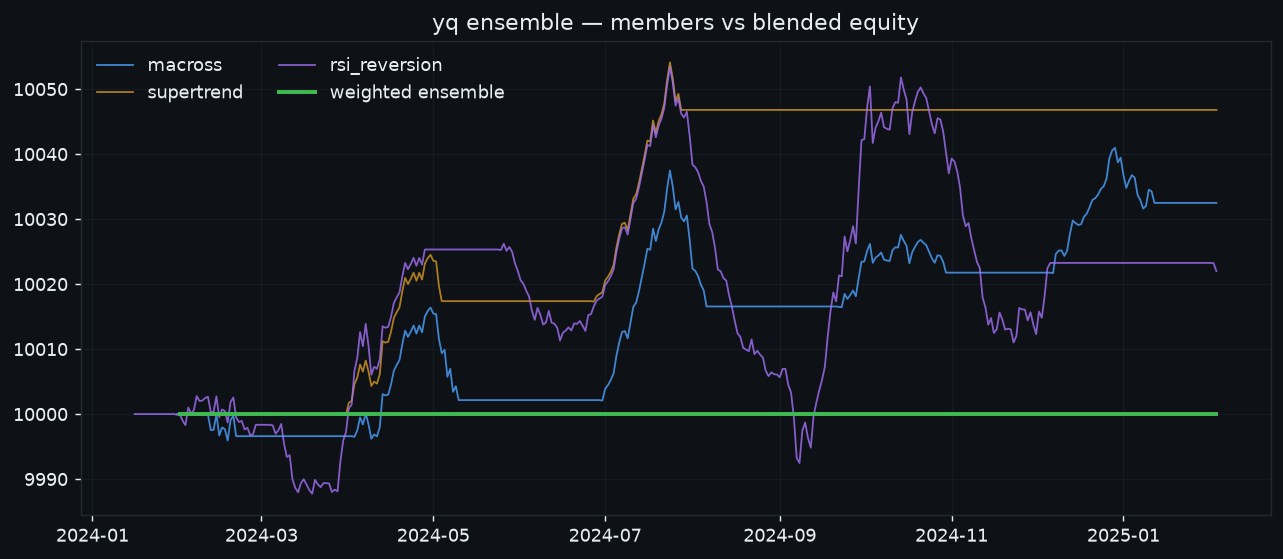
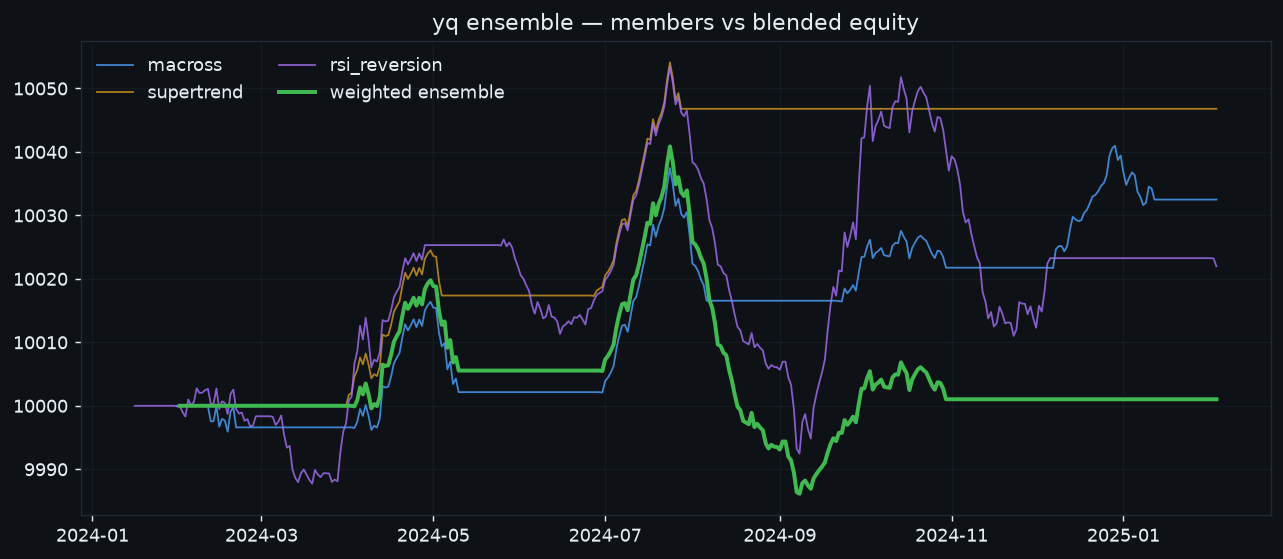
Fix Ensemble: persistent member stances so blends actually trade
The weighted/majority ensemble could sit dead-flat (0 trades): member strategies
emit BUY/SELL only on the crossover *bar*, so on any given bar they almost never
agreed and the net weighted vote never crossed the threshold (the green line in
the docs chart was flat).

Fix: each member's vote is now a *persistent stance* — its last directional
signal carried forward until it flips — so the vote reflects who is currently
long/short. The ensemble debounces, trading only when the aggregate stance flips
(long ↔ flat). Members that never cross (e.g. Donchian on a monotonic ramp) still
just hold; on realistic oscillating data the blend now trades as intended.

Regenerated docs/assets/ensemble.png (line is now dynamic, not flat). Regression
test asserts a weighted blend trades ≥1 time on oscillating data.

Claude-Session: https://claude.ai/code/session_013Byx5gYnWgTGdUFsbqiVoE

diff --git a/src/yammyquant/strategy/ensemble.py b/src/yammyquant/strategy/ensemble.py
@@ -86,23 +86,33 @@ class Ensemble(Strategy):
             raise ValueError(f"unknown rule {rule!r}; choose from {RULES}")
         self.rule, self.threshold, self.size = rule, threshold, size
         self.warmup = max(m.warmup for m in self.members)
+        self._stance = ["HOLD"] * len(self.members)
+        self._side = "FLAT"
 
     def reset(self) -> None:
         for m in self.members:
             m.reset()
+        self._stance = ["HOLD"] * len(self.members)
+        self._side = "FLAT"
 
     def on_bar(self, window: Candle) -> List[Order]:
-        votes = []
-        for m in self.members:
+        # Members signal on crossover *bars* only; carry each member's last
+        # directional signal forward as a persistent stance so the vote reflects
+        # who is currently long/short — otherwise members rarely agree on the
+        # same bar and weighted/majority rules almost never fire.
+        for i, m in enumerate(self.members):
             if len(window) < m.warmup:
-                votes.append("HOLD")
                 continue
             orders = m.on_bar(window[-m.warmup:])
-            votes.append(orders[0].action.value if orders else "HOLD")
-        agg = aggregate_votes(votes, self.weights, self.rule, self.threshold)
+            if orders:
+                self._stance[i] = orders[0].action.value
+        agg = aggregate_votes(self._stance, self.weights, self.rule, self.threshold)
         price, time = float(window.close[-1]), window.index[-1]
-        if agg["buy"] and not agg["sell"]:
+        # Debounce: trade only when the aggregate stance flips (long ↔ flat).
+        if agg["buy"] and not agg["sell"] and self._side != "LONG":
+            self._side = "LONG"
             return [Order(Action.BUY, window.ticker, self.size, price, time)]
-        if agg["sell"] and not agg["buy"]:
+        if agg["sell"] and not agg["buy"] and self._side == "LONG":
+            self._side = "FLAT"
             return [Order(Action.SELL, window.ticker, self.size, price, time)]
         return []

diff --git a/tests/test_ensemble.py b/tests/test_ensemble.py
@@ -94,3 +94,17 @@ def test_decide_unanimous_is_stricter(tmp_path, fake_exchange):
     out = ops.decide(store, state, weight=0.2, execute=False)
     # unanimous may suppress the entry; whatever it returns must be self-consistent
     assert isinstance(out["proposals"], list)
+
+
+def test_weighted_ensemble_trades_not_flat(sine_candle):
+    """Regression: persistent stances mean a weighted blend actually trades.
+    Members fire on different bars, so instantaneous votes never agreed and the
+    weighted equity used to be a dead-flat line (zero trades)."""
+    from yammyquant.backtest.engine import Backtest
+    from yammyquant.strategy.ensemble import Ensemble
+    from yammyquant.strategy.builtin import MACross, EMACross, RSIReversion
+
+    e = Ensemble([MACross(5, 20), EMACross(9, 21), RSIReversion(14)],
+                 rule="weighted", threshold=0.4)
+    res = Backtest(sine_candle, e, cash=10_000).run()
+    assert res.stats["num_trades"] >= 1